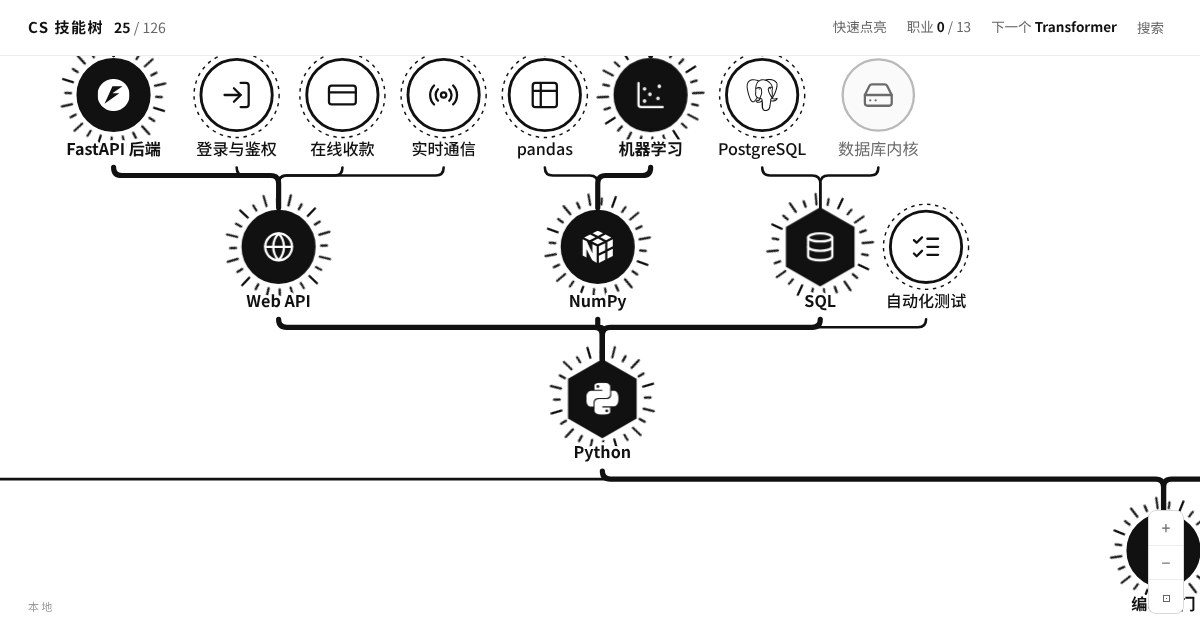
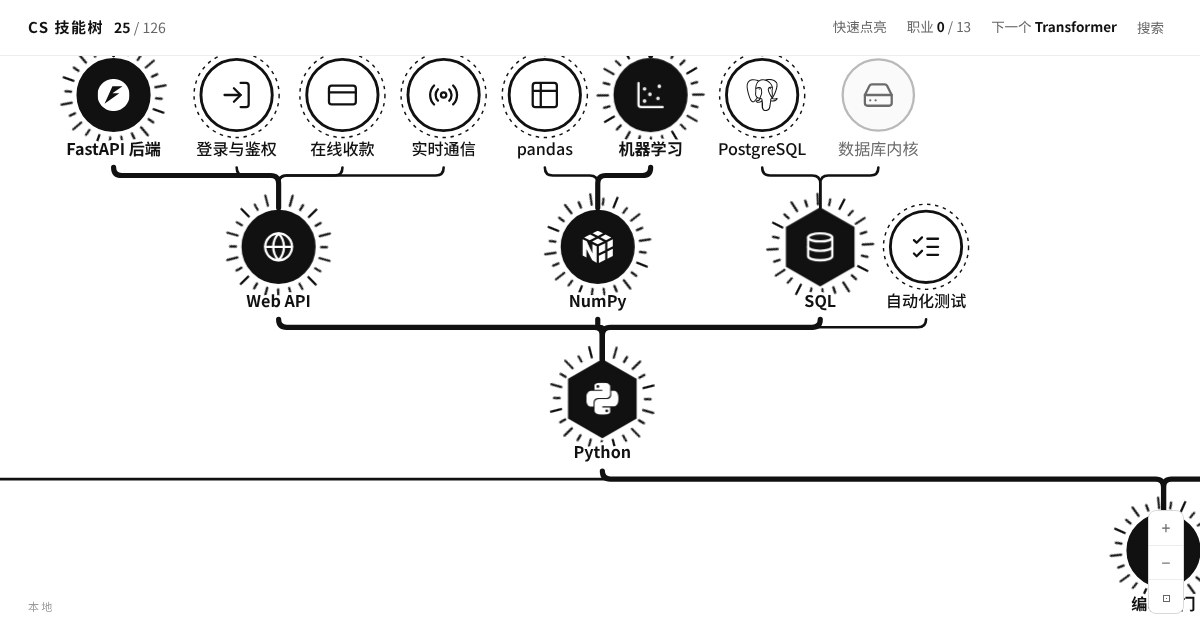
Career nodes: a clean double-ring medal instead of a jagged seal
The final career node is now a white medal with a thick outer ring and
a thin inner ring, larger than a skill node, inside the same progress
ring. Reached careers turn black as before. The name and the lit-of-
total count sit above the rays so a reached career's spinning rays
never cover the text.

Claude-Session: https://claude.ai/code/session_01VcDYgFzowvD3W4KKBaHuKd

diff --git a/src/components/SkillTree.tsx b/src/components/SkillTree.tsx
@@ -54,15 +54,6 @@ export function Rays({ r, delay, count = 24, long = 9, short = 5, className = ''
   )
 }
 
-/** 印章形：n 个尖角，外半径 R、内半径 r。职业终极节点用 */
-export function sealPath(R: number, r: number, n: number): string {
-  return Array.from({ length: n * 2 }, (_, i) => {
-    const a = (Math.PI * i) / n - Math.PI / 2
-    const rr = i % 2 === 0 ? R : r
-    return `${i ? 'L' : 'M'}${(Math.cos(a) * rr).toFixed(1)},${(Math.sin(a) * rr).toFixed(1)}`
-  }).join(' ') + 'Z'
-}
-
 /** 每个节点的光芒转到不同的角度，整张图不会齐刷刷一起转 */
 export function orbitDelay(id: string): string {
   let h = 0
@@ -154,7 +145,7 @@ interface TipProps {
 }
 
 /**
- * 职业：技能树最上面一排的终极节点。一枚印章形的徽章，中间是职业图标，
+ * 职业：技能树最上面一排的终极节点。一枚双圈的奖章（外粗内细），中间是职业图标，
  * 外面一圈进度环随着点亮要学的技能慢慢填满。全部点亮就自动达成：徽章变黑，外面一大圈光芒转起来。
  */
 const Tip = memo(function Tip({ id, x, y, name, icon, done, total, focused, dim, pulse, onClick, onHover }: TipProps) {
@@ -170,13 +161,13 @@ const Tip = memo(function Tip({ id, x, y, name, icon, done, total, focused, dim,
       onPointerEnter={() => onHover(id)}
       onPointerLeave={() => onHover(null)}
     >
-      <rect className="hit" x={-80} y={-TIP_R - 50} width={160} height={2 * TIP_R + 60} />
+      <rect className="hit" x={-80} y={-TIP_R - 68} width={160} height={2 * TIP_R + 78} />
       {reached && <Rays r={TIP_R + 12} count={32} long={14} short={7} delay={orbitDelay(id)} className="tip-rays" />}
       {/* 进度环：要学的技能点亮了多少 */}
       <circle className="tip-track" r={TIP_R + 5} />
       <circle className="tip-progress" r={TIP_R + 5} pathLength={100} strokeDasharray={`${pct} 100`} transform="rotate(-90)" />
-      <path className="seal" d={sealPath(TIP_R, TIP_R - 6, 16)} />
-      <circle className="seal-inner" r={TIP_R - 12} />
+      <circle className="seal" r={TIP_R} />
+      <circle className="seal-inner" r={TIP_R - 7} />
       <foreignObject x={-16} y={-16} width="32" height="32">
         <div className="tip-glyph"><SkillGlyph icon={icon} size={32} /></div>
       </foreignObject>
@@ -190,8 +181,9 @@ const Tip = memo(function Tip({ id, x, y, name, icon, done, total, focused, dim,
           ))}
         </g>
       )}
-      <text className="tip-name" y={-TIP_R - 30}>{name}</text>
-      <text className="tip-pct" y={-TIP_R - 13}>{reached ? '已达成' : `${done} / ${total}`}</text>
+      {/* 名字和进度写在光芒外面，达成后转起来的光芒不会压到字 */}
+      <text className="tip-name" y={-TIP_R - 48}>{name}</text>
+      <text className="tip-pct" y={-TIP_R - 31}>{reached ? '已达成' : `${done} / ${total}`}</text>
     </g>
   )
 })

diff --git a/src/components/SubPanel.tsx b/src/components/SubPanel.tsx
@@ -1,7 +1,7 @@
 // 一个职业：技能树最上面一排的终极节点。卡片和技能卡一个样子：徽章、名字、进度、要点亮哪些、真实项目。
 // 不用“设为目标”：要学的都点亮了，它自己就亮。
 import { useApp } from '../state'
-import { sealPath, SkillGlyph, Rays, orbitDelay } from './SkillTree'
+import { SkillGlyph, Rays, orbitDelay } from './SkillTree'
 import { Links, Meter } from './common'
 import { SkillSlot } from './SkillPanel'
 
@@ -32,8 +32,8 @@ export function SubPanel({ id }: { id: string }) {
           {reached && <Rays r={50} count={32} long={9} short={5} delay={orbitDelay(id)} className="tip-rays" />}
           <circle className="tip-track" r={46} />
           <circle className="tip-progress" r={46} pathLength={100} strokeDasharray={`${Math.round((100 * r.coreDone) / r.coreTotal)} 100`} transform="rotate(-90)" />
-          <path className="seal" d={sealPath(40, 34, 16)} />
-          <circle className="seal-inner" r={28} />
+          <circle className="seal" r={40} />
+          <circle className="seal-inner" r={33} />
           <foreignObject x={-16} y={-16} width="32" height="32">
             <div className="tip-glyph"><SkillGlyph icon={sub.icon} size={32} /></div>
           </foreignObject>

diff --git a/src/styles.css b/src/styles.css
@@ -181,20 +181,18 @@ a {
   fill: transparent;
 }
 
-/* 印章：白底黑边，里面一圈细虚线，中间是职业图标 */
+/* 奖章：白底，外面一圈粗黑线，里面紧贴一圈细黑线，中间是职业图标 */
 .tip .seal {
   fill: var(--paper);
   stroke: var(--ink);
-  stroke-width: 2.5;
-  stroke-linejoin: round;
+  stroke-width: 3.5;
   transition: fill 0.3s var(--ease), stroke-width 0.2s;
 }
 
 .tip .seal-inner {
   fill: none;
   stroke: var(--ink);
-  stroke-width: 1.25;
-  stroke-dasharray: 2 3;
+  stroke-width: 1.5;
 }
 
 .tip-glyph {
@@ -237,7 +235,7 @@ a {
 
 .tip:hover .seal,
 .tip.focused .seal {
-  stroke-width: 4;
+  stroke-width: 5;
 }
 
 /* 达成：徽章变黑、图标变白，外面一大圈光芒在转 */

diff --git a/src/lib/webLayout.ts b/src/lib/webLayout.ts
@@ -221,7 +221,7 @@ export function layoutWeb(tree: Tree): WebLayout {
     minX: Math.min(...ns.map((n) => n.x)) - 90,
     maxX: Math.max(...ns.map((n) => n.x)) + 90,
     // 最上面一排的职业：徽章上面还有名字
-    minY: Math.min(...ns.map((n) => n.y)) - TIP_R - 70,
+    minY: Math.min(...ns.map((n) => n.y)) - TIP_R - 90,
     maxY: LABEL_BOTTOM + 30,
   }
   const main = nodes.get('pytorch') ?? ns[0]

diff --git a/docs/ART.md b/docs/ART.md
@@ -46,7 +46,7 @@
 - **一列一列**：每个节点只画一根枝，连到它的主前置。所以画出来是一条条竖直的链，比如 Python → NumPy → 机器学习 → 深度学习 → PyTorch → Transformer → 从零实现 GPT → vLLM 推理 → 分布式推理。只有编程入门、Python、计算机系统这种关键节点才一分多。
 - **左右的顺序**：AI 产品在左，主线 AI Infra 在中间，底层系统和安全在右，数学、量化和工具在最右。
 - **其余前置不画线**（会横穿整张图）。悬停或选中一个技能时，只亮它往下的全部依赖，都是黑边；面板里用小节点列出下一级。
-- **最上面一排是职业，也就是终极节点**：一枚印章形的徽章（16 个尖角），里面一圈细虚线，中间是职业图标；外面一圈进度环，要学的技能点亮多少就黑多少；上面是加粗的名字和“已点亮几个 / 一共几个”。从它挂的技能一根实线直直连上去。不用选职业：要学的都点亮了，它自己就达成——徽章变黑、图标变白，外面一大圈光芒慢慢转；达成那一刻徽章弹一下，两圈波纹和十六道光芒冲出去，底下提示“达成职业”。点它，树上亮出它要学的全部技能。
+- **最上面一排是职业，也就是终极节点**：一枚双圈的奖章（外面一圈粗线、里面紧贴一圈细线），比普通节点大一号，中间是职业图标；外面一圈进度环，要学的技能点亮多少就黑多少；上面是加粗的名字和“已点亮几个 / 一共几个”。从它挂的技能一根实线直直连上去。不用选职业：要学的都点亮了，它自己就达成——徽章变黑、图标变白，外面一大圈光芒慢慢转；达成那一刻徽章弹一下，两圈波纹和十六道光芒冲出去，底下提示“达成职业”。点它，树上亮出它要学的全部技能。
 - **枝条是直角折线**：从父节点顶上出发，往上到两排中间，横过去，再往上停在孩子名字的下面。拐角是小圆角。线永远不穿过字。两头都点亮的枝是黑色的粗线；从已点亮长向能点亮的是黑线，告诉你下一步往哪走；其余是中灰。
 - **打开时**不看全图：放大到 115%（手机 85%），从最下面的起点看起，主线在屏幕中间；往上拖或点“看全图”再看方向。
 
